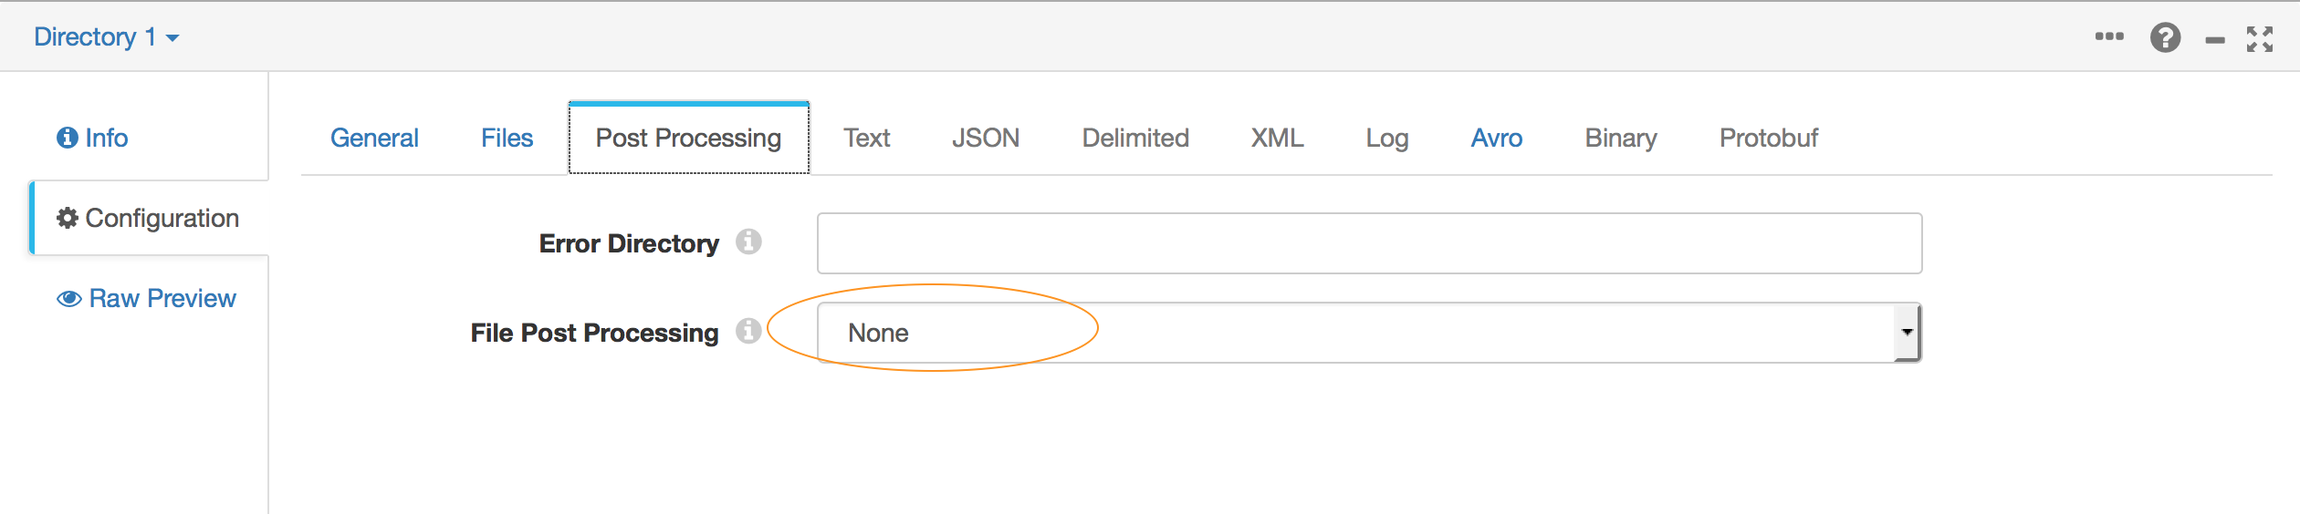
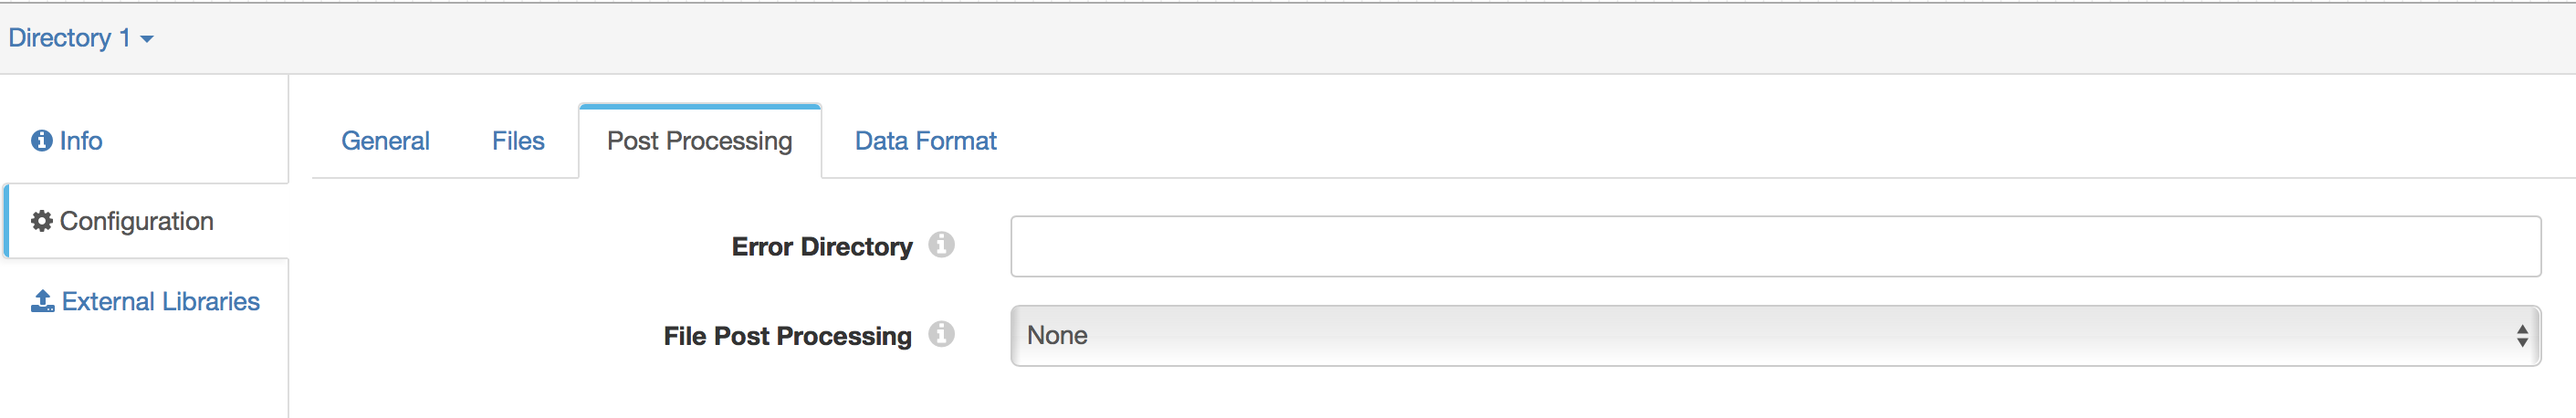
DOC-1745 Updated screenshots and content for Part 1 - Publishing to a Kafka Producer

diff --git a/tutorial-2/directory_to_kafkaproducer.md b/tutorial-2/directory_to_kafkaproducer.md
@@ -14,33 +14,32 @@
 
 * Enter the following settings:
 
- * **Data Format** - Avro
  * **Files Directory** - The absolute file path to the directory containing the sample .avro files.
  * **File Name Pattern** - `cc*` - 
  *The ccdata file in the samples directory is a bzip2 compressed Avro file. Data Collector will automatically detect and decrypt it on the fly.*
- * **Files Compression** - None. FYI, origins can read compressed Avro files automatically based on the header information in the files. There's no need to configure this property to read compressed Avro files.
-
 
 * In the *Post Processing* tab make sure **File Post Processing** is set to None.
 
 *Note: This property also lets you delete source files after they have been processed. You may want to use this in your production systems once you have verified your pipelines are configured correctly.*
 <img style="width:100%;" src="img/directory_config_postproc.png">
 
-* In the **Avro** tab leave the default as is.
-
-*Note: The Avro files already contain the schema that the origin will pick up and decode on the fly. If you'd like to override the default schema, enter the custom schema in the Avro tab.*
+* In the *Data Format* select **Avro**.
+<img style="width:100%;" src="img/directory_config_dataformat.png">
 
 #### Defining the Kafka Producer
 * Drag a Kafka Producer destination to the canvas.
 
 * In the Configuration settings, click the General tab. For Stage Library, select the version of Kafka that matches your environment.
 
-* Go to the Kafka tab and set the Broker URI property to point to your Kafka broker e.g.`<hostname/ip>:<port>`. Set Topic to the name of your Kafka topic. And set Data Format to SDC Record.
+* Go to the Kafka tab and set the Broker URI property to point to your Kafka broker e.g.`<hostname/ip>:<port>`. Set Topic to the name of your Kafka topic.
 <img style="width:100%;" src="img/kafka_producer_config.png">
 
-*SDC Record is the internal data format that is highly optimized for use within StreamSets Data Collector (SDC). Since we are going to be using another Data Collector pipeline to read from this Kafka topic we can use SDC Record to optimize performance. If you have a custom Kafka Consumer on the other side you may want to use one of the other data formats and decode it accordingly.*
-
 You can use the Kafka Configuration section of this tab to enter any specific Kafka settings you want to use. In a future tutorial we'll see how to configure TLS, SASL or Kerberos with Kafka.
+
+* On Data Format tab select SDC Record
+<img style="width:100%;" src="img/kafka_producer_dataformat.png">
+
+*SDC Record is the internal data format that is highly optimized for use within StreamSets Data Collector (SDC). Since we are going to be using another Data Collector pipeline to read from this Kafka topic we can use SDC Record to optimize performance. If you have a custom Kafka Consumer on the other side you may want to use one of the other data formats and decode it accordingly.*
 
 You may choose to transform data using any of the Data Collector processor stages before you write it to Kafka, however for this tutorial we will do the transformations on the other end.
 
